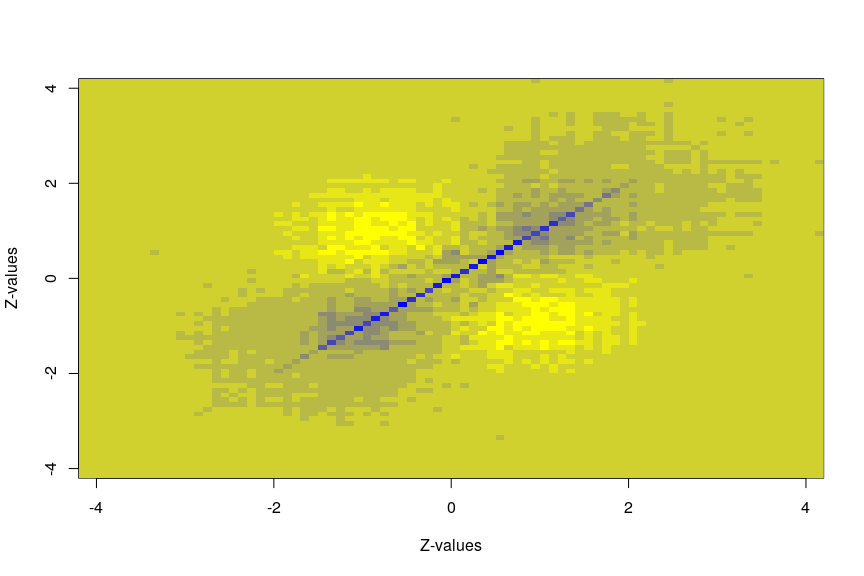
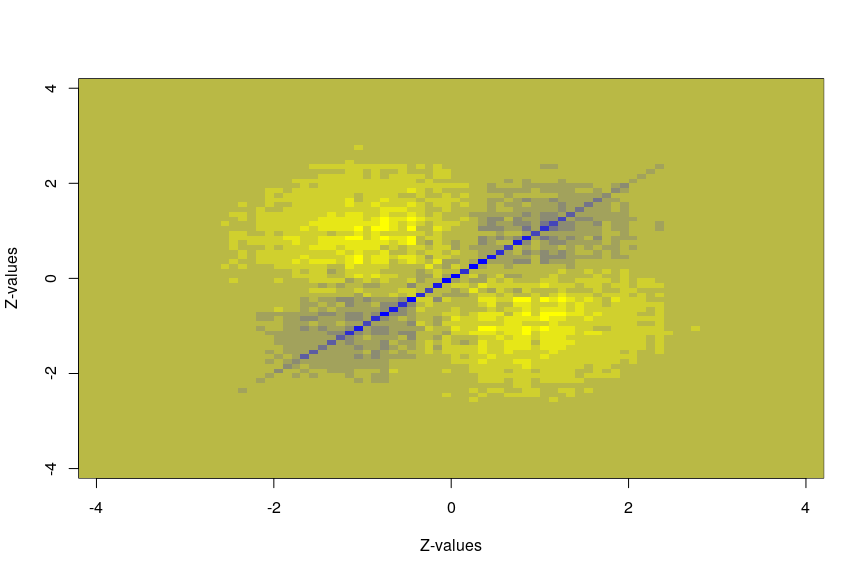
Update readme

diff --git a/README.md b/README.md
@@ -47,7 +47,7 @@ The method provides an estimate of the proportion of true null hypothesis, which
 fdrRes$p0
 ```
 
-    ## [1] 0.8907524
+    ## [1] 0.8751848
 
 The result of the procedure can be represented graphically as follows:
 
@@ -93,12 +93,12 @@ quantile(FdrVDP)
 ```
 
     ##           0%          25%          50%          75%         100% 
-    ## 8.467117e-20 2.208986e-03 3.373756e-01 7.400545e-01 8.956764e-01
+    ## 1.554661e-18 1.455041e-02 3.015831e-01 7.276982e-01 8.680592e-01
 
 An approximation of the correlation matrix of the test statistics can be drawn as follows:
 
 ``` r
-plotCperm(testVanDePutte)
+plotApproxCovar(testVanDePutte)
 ```
 
 ![](README_figs/README-approxCor-1.png)
